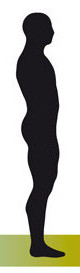
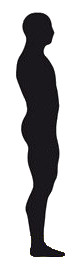
modification des couleurs et ajout de la gestion du dark mode

Changed region(s): [[0.0, 0.8498, 1.0, 0.9963]]

diff --git a/src/app/_components/imcCalculator/imcResult/ImcResult.tsx b/src/app/_components/imcCalculator/imcResult/ImcResult.tsx
@@ -28,8 +28,8 @@ export default function ImcResult(props: imcResultPropsType) {
     //  bg-black RETIRER AU PREMIER CONTAINER
   return (
     <div ref={mainContainer}>
-        <H2>RÉSULTAT</H2>
-        <Container className="flex justify-around items-center w-full sm:w-6/12 m-auto p-1">
+        <H2>VOTRE IMC EST DE :</H2>
+        <Container className="flex justify-around items-center w-full sm:w-6/12 max-w-md m-auto p-1">
           <ResultImages animationForImages={ animationForImages } />
           <Container className="flex flex-col items-center">
             <Imc
@@ -39,9 +39,9 @@ export default function ImcResult(props: imcResultPropsType) {
               incrementationIsOver={incrementationIsOver}
               weightToAchieve={weightToAchieve}
             />
-            <button className='text-wheat px-6 py-2 border-2 border-wheat rounded-full' onClick={ restart }>
+            {incrementationIsOver && <button className=' px-6 py-2 border-2 border-black rounded-full hover:font-bold hover:border-3 dark:text-wheat dark:border-wheat' onClick={ restart }>
               recommencer
-            </button>
+            </button>}
           </Container>
         </Container>
     </div>

diff --git a/tailwind.config.ts b/tailwind.config.ts
@@ -18,15 +18,16 @@ const config: Config = {
   ],
   theme: {
     extend: {
-      colors: {
-        denutrition: '#61edf9',
-        maigreur: '#62f7b9',
-        poidsNormal: '#59f776',
-        surpoids: '#bbff00',
+      colors: {// les couleurs sont ok pour bg white and black
+        //            bg blanc    bg noir     nom couleur si blanc
+        denutrition: '#0797B9',//'#61edf9', new -> cyan
+        maigreur: '#0D9B8A',//'#62f7b9', new -> teal
+        poidsNormal: '#2B9A66',//'#59f776', new -> green
+        surpoids: '#EF5F00',//'#bbff00', -> orange
         obesite: {
-          moderee: '#f7c53d',
-          severe: '#ff9900',
-          morbide: '#ff2600'
+          moderee: '#CF3897',//'#f7c53d', new -> pink
+          severe: '#DC3B5D',//'#ff9900', new -> ruby
+          morbide: '#FF0000',//'#ff2600' new -> red11
         },
         wheat: 'wheat'
       },

diff --git a/src/app/_components/imcCalculator/imcResult/Imc/Imc.tsx b/src/app/_components/imcCalculator/imcResult/Imc/Imc.tsx
@@ -16,7 +16,7 @@ export default function Imc({ imcAnimated, imcAnimation, imcStatus, incrementati
 
   return (
     <Container className='flex flex-col items-center gap-4 m-5'>
-      <Presentation />
+      
       <ImcSplitted
         imcAnimated={ imcAnimated }
         imcAnimation={ imcAnimation }
@@ -27,13 +27,11 @@ export default function Imc({ imcAnimated, imcAnimation, imcStatus, incrementati
         imcStatus={ imcStatus }
       />
       {
-        incrementationIsOver ?
+        incrementationIsOver &&
           <Advice
             weight={weightToAchieve}
             imcStatus={imcStatus.text}
-          />
-        :
-          null
+          />        
       }
     </Container>
   )

diff --git a/src/app/_components/imcCalculator/imcForm/ImcForm.tsx b/src/app/_components/imcCalculator/imcForm/ImcForm.tsx
@@ -4,14 +4,13 @@ import React, { useRef } from 'react'
 import { imcFormPropsType } from './imcForm';
 import InputNumber from '../../globals/input/InputNumber'
 import { test } from 'ramda';
-import config from '../../../_config/config';// modifier dnas packagejson avec @
+import config from '../../../_config/config';
 import ImageForm from './imageForm/ImageForm';
 import Submit from './Submit';
 
 
 export default function ImcForm(props: imcFormPropsType) {
   const { blockSubmit, submit } = props;
-  console.log("blockSubmit => ", blockSubmit)
 
   const inputTall = useRef<HTMLInputElement>({} as HTMLInputElement)
   const inputWeight = useRef<HTMLInputElement>({} as HTMLInputElement)

diff --git a/src/app/_components/imcCalculator/imcResult/Imc/imcSplitted/ImcSplitted.tsx b/src/app/_components/imcCalculator/imcResult/Imc/imcSplitted/ImcSplitted.tsx
@@ -9,7 +9,7 @@ export default function ImcSplitted({ imcAnimated, imcAnimation }: { imcAnimated
     const [ten, unit, comma, tenth] = getImcSplitted(imcAnimated);
 
   return (
-    <p className={`flex items-center justify-center w-20 h-20 border border-denutrition rounded-full shadow-full text-denutrition shadow-denutrition ${imcAnimation}`}>
+    <p className={`flex items-center justify-center w-20 h-20 m-3 border border-denutrition rounded-full shadow-full text-denutrition shadow-denutrition ${imcAnimation}`}>
           <Ten ten={ten} />
           <Unit unit={unit} />
           <Comma />

diff --git a/src/app/_components/imcCalculator/imcForm/Submit.tsx b/src/app/_components/imcCalculator/imcForm/Submit.tsx
@@ -2,7 +2,7 @@ import React from 'react'
 
 export default function Submit({ disabled, children }:{disabled: boolean, children: string}) {
     
-    const className = `px-6 py-2 border-2 border-black rounded-full hover:font-bold hover:border-3 ${disabled ? 'cursor-not-allowed' : ''}`
+    const className = `px-6 py-2 border-2 border-black rounded-full hover:font-bold hover:border-3 dark:text-wheat dark:border-wheat ${disabled ? 'cursor-not-allowed' : ''}`
 
   return (
     <button

diff --git a/src/app/_components/globals/input/InputNumber.tsx b/src/app/_components/globals/input/InputNumber.tsx
@@ -40,8 +40,8 @@ const InputNumber = forwardRef<HTMLInputElement, InputProps>( function InputNumb
 
 
     return (
-        <div className="flex flex-col justify-center p-2 w-40">
-            <label htmlFor={name}>
+        <div className="flex flex-col justify-center p-2 w-40 dark:text-black">
+            <label htmlFor={name} className='dark:text-white'>
                 {label}
             </label>
             <input

diff --git a/src/app/_components/imcCalculator/imcResult/ResultImages/utils/getAnimatedImages.tsx b/src/app/_components/imcCalculator/imcResult/ResultImages/utils/getAnimatedImages.tsx
@@ -2,7 +2,7 @@
 import { map } from "ramda";
 import getAnimatedImagesBuilder from "./getAnimatedImagesBuilder";
 import config from "../../../../../_config/config";
-import { animationForImagesType } from '../../imcResultType'
+import { animationForImagesType } from '../../imcResult'
 
 const weightStatus = config.weightStatus;
 

diff --git a/src/app/_components/imcCalculator/imcResult/ResultImages/utils/getAnimatedImagesBuilder.tsx b/src/app/_components/imcCalculator/imcResult/ResultImages/utils/getAnimatedImagesBuilder.tsx
@@ -1,7 +1,7 @@
 
 import Image from 'next/image';
 import formateWordForPath from './formateWordForPath'
-import { animationForImagesType } from '../../imcResultType';
+import { animationForImagesType } from '../../imcResult';
 
 export default function getAnimatedImagesBuilder(animations: animationForImagesType){
 

diff --git a/src/app/layout.tsx b/src/app/layout.tsx
@@ -17,7 +17,7 @@ export default function RootLayout({
 }) {
   return (
     <html lang="fr">
-      <body className={inter.className}>
+      <body className={`${inter.className} bg-white dark:bg-black`}>
         <Header />
         {children}
       </body>

diff --git a/src/app/_components/imcCalculator/imcResult/Imc/advice/Advice.tsx b/src/app/_components/imcCalculator/imcResult/Imc/advice/Advice.tsx
@@ -9,6 +9,6 @@ export default function Advice({ weight, imcStatus }: adviceType){
     const advice = getAdvice( weight, imcStatus );
 
   return (
-    <p className='text-wheat'>{ advice }</p>
+    <p className='dark:text-wheat'>{ advice }</p>
   )
 }
